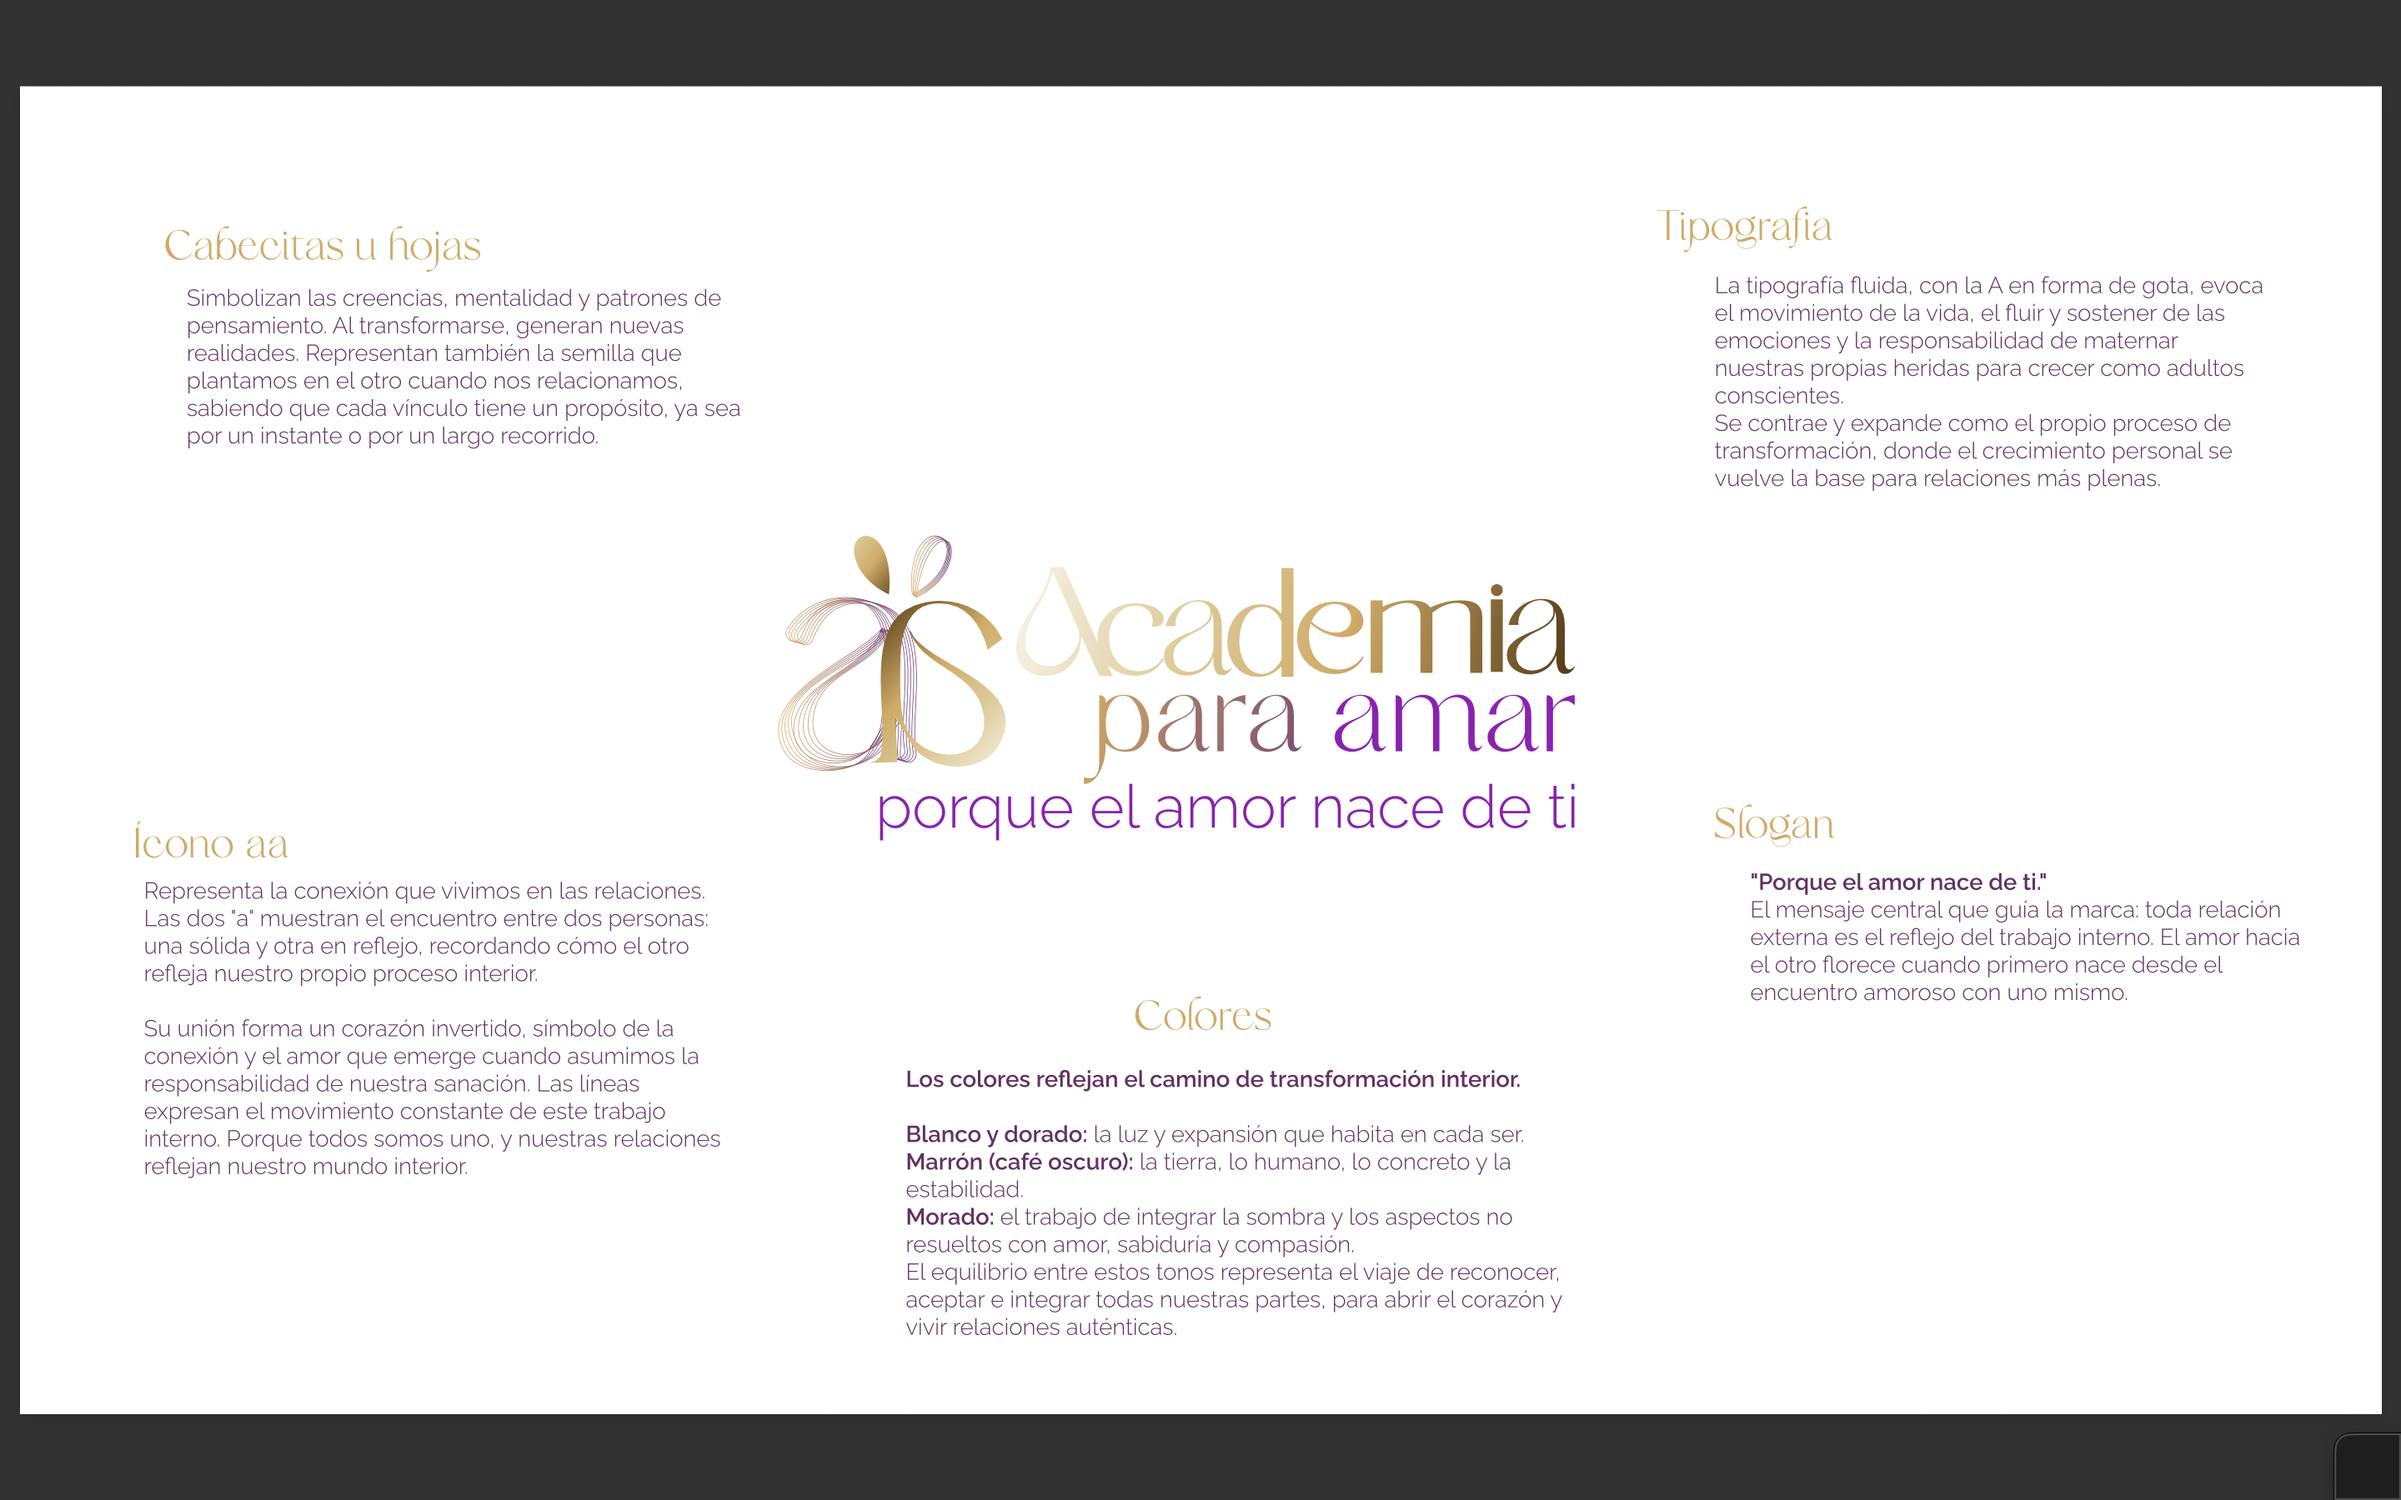
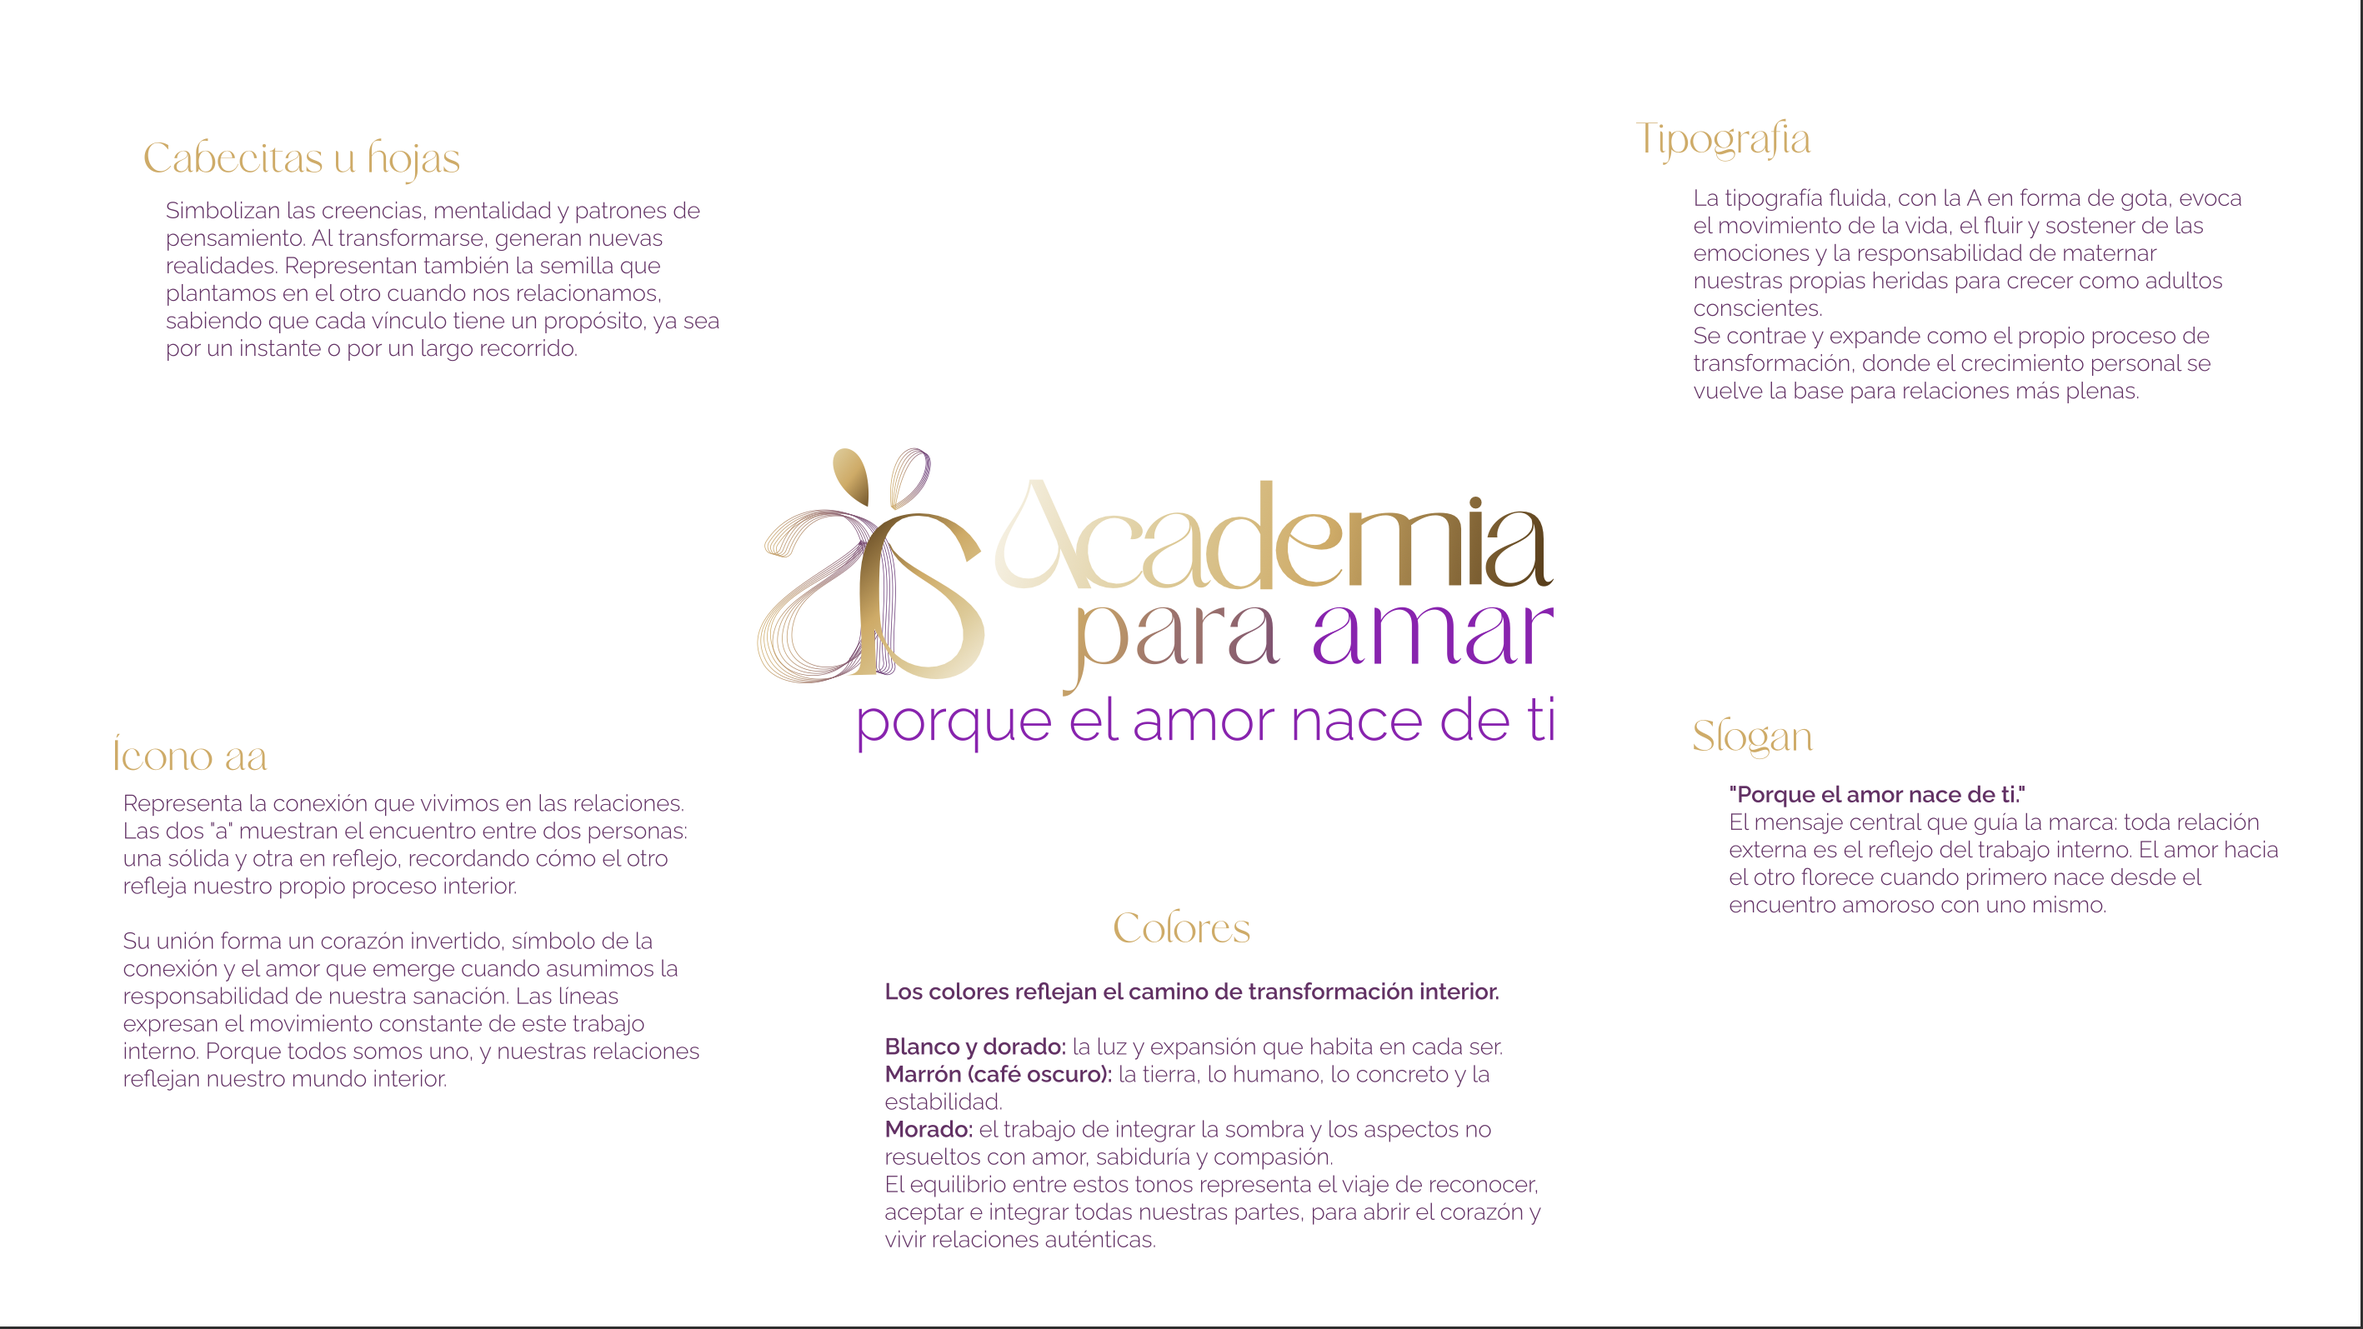
Crop black border from Academia para Amar image, add testimonial years
Lina Jimenez 2022, Leticia Monreal 2022, Laura Ortiz 2023

diff --git a/index.html b/index.html
@@ -581,6 +581,7 @@
         <div class="testimonio-info">
           <h4>Lina Jiménez</h4>
           <p>Mentora Transformacional y de Consciencia Plena</p>
+          <p class="marca-year">2022</p>
         </div>
       </div>
 
@@ -591,6 +592,7 @@
         <div class="testimonio-info">
           <h4>Leticia Monreal</h4>
           <p>Terapeuta Cuántica</p>
+          <p class="marca-year">2022</p>
         </div>
       </div>
 
@@ -621,6 +623,7 @@
         <div class="testimonio-info">
           <h4>Laura Ortiz</h4>
           <p>Fisioterapeuta Integrativa del dolor</p>
+          <p class="marca-year">2023</p>
         </div>
       </div>
 
